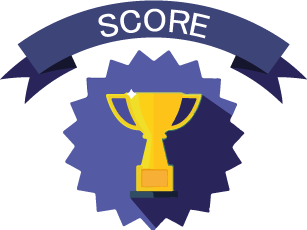
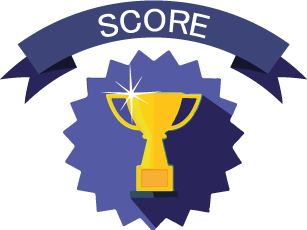
style3.css

Changed region(s): [[0.3225, 0.2739, 0.5277, 0.5478]]

diff --git a/patrick/css/style.css b/patrick/css/style.css
@@ -222,21 +222,24 @@ color: #fff;
   border: none;
   color: #fff;
 }
-#pub{
+#pub img{
   width: 90%;
-  height: 200px;
-  border:1px solid #2;
-  margin-top: 50px;
-  background-image: url(../img/pub.jpg);
-  background-repeat: no-repeat;
-  -webkit-background-size: contain;
-  background-size: contain;
-  background-position: center;
-  box-shadow: 0 2px 3px rgba(0, 0, 0, 0.5);
+  margin: 10px 0;
+  box-shadow: 0 3px 5px rgba(0, 0, 0, 0.5);
+}
+#annonce img{
+  width: 90%;
+  margin-top: 60px;
+}
+#score{
+  margin-top: 80px;
+}
+#score img{
+  width: 50%;
 }
 /*============================== Animation ==============*/
 .abi {
-  animation-duration: .5s;
+  animation-duration: 0.8s;
   animation-name: bounceIn;
   -moz-transform-origin: 50% 50%;
 }

diff --git a/patrick/login.html b/patrick/login.html
@@ -41,8 +41,12 @@
               <input type="text" class="pseudo_session" placeholder="Entrez votre nom">
               <button id="bouton" class="ma fond2 submit_login">Valider</button>
             </form>
+              <div id="annonce" class="tac ma">
+                <img src="./img/annonce.png" alt="">
+              </div>
             <div id="pub" class="tac ma">
-              <p>Votre parcours est accompagné par</p>
+              <p></p>
+              <img src="./img/pub2.jpg" alt="">
             </div>
     </div>
 </div><!--end content-->

diff --git a/patrick/score.html b/patrick/score.html
@@ -2,7 +2,7 @@
 <html lang="fr">
   <head>
     <meta charset="utf-8">
-    <title>Run</title>
+    <title>Score</title>
 
     <!-- Sets initial viewport load and disables zooming  -->
     <meta name="viewport" content="initial-scale=1, maximum-scale=1">
@@ -37,8 +37,8 @@
                 </nav>
       </div >
 
-                  <div id="run">
-
+                  <div id="score" class="tac ma abi">
+                      <img src="./img/score.png" alt="">
 
                   </div>
     </div><!--end options-->
